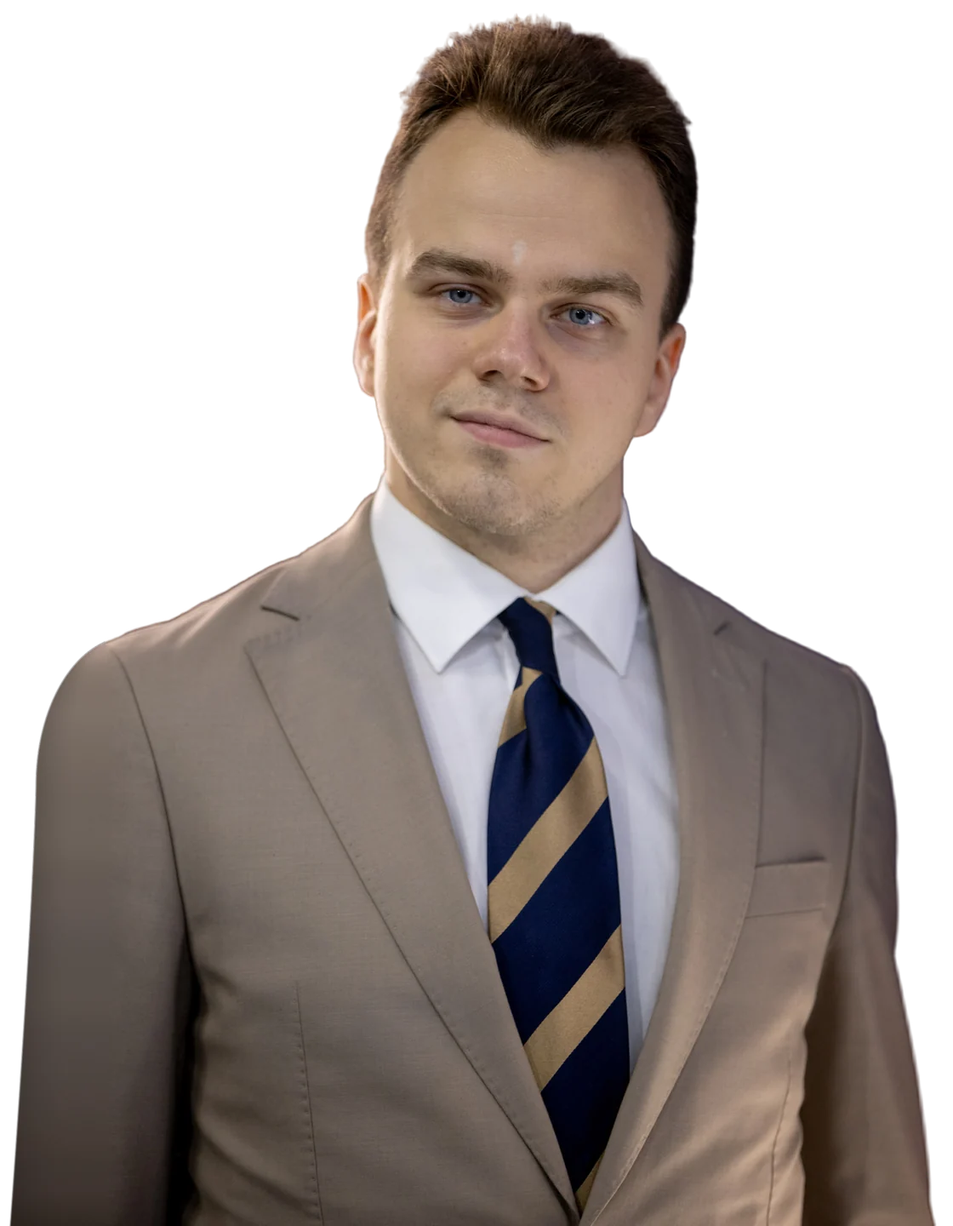
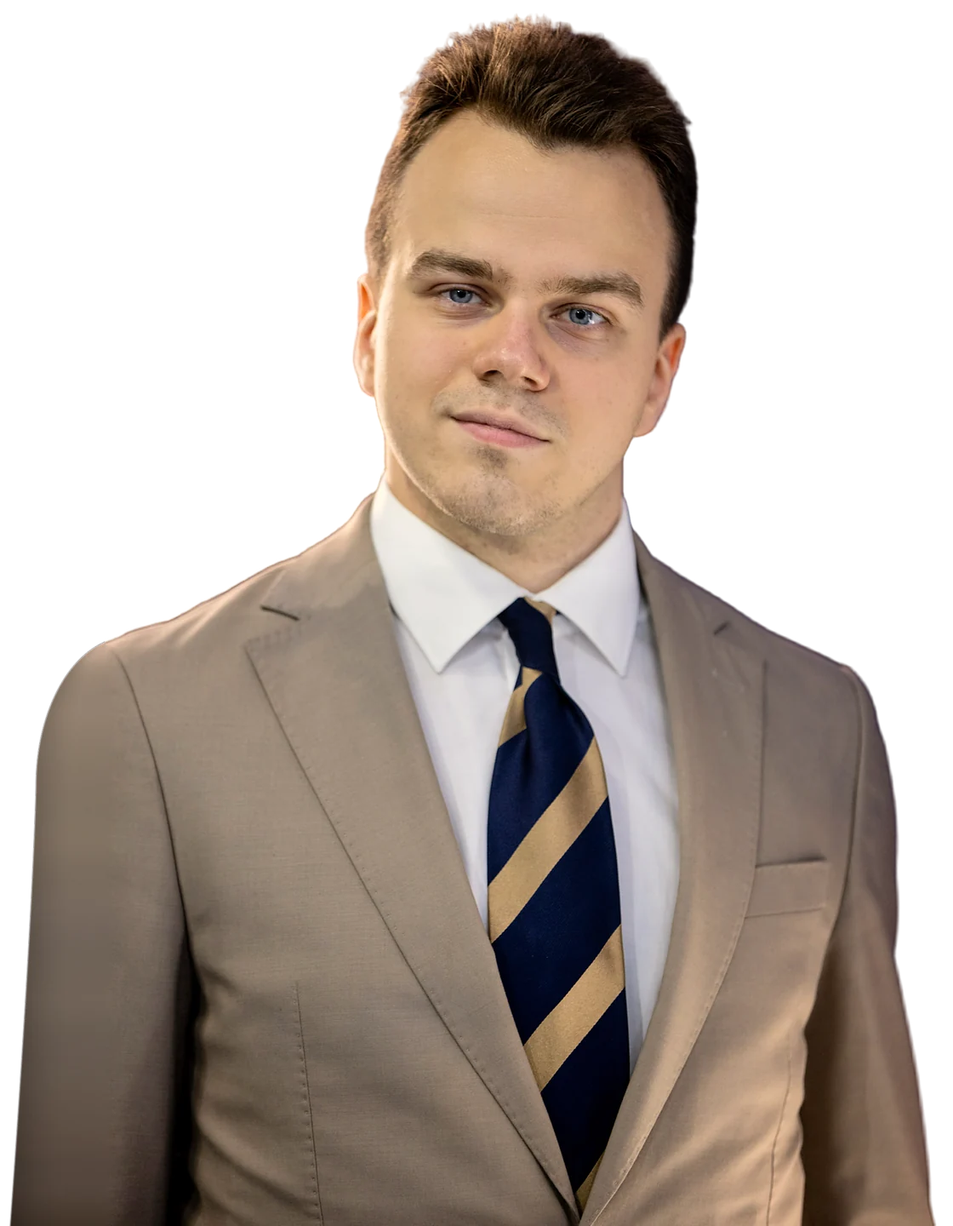
Свет на портрете, один снимок с МИПФ, версии картинок в адресе
Портрет был недосвечен и уходил в холодный оттенок: баланс белого
выставлен по рубашке, середина поднята кривой, крупные перепады яркости
на лице и пиджаке слегка выровнены, блик на лбу приглушен до тона кожи.
Черты лица и форма не менялись.

С МИПФ в галерее оставлен один снимок — с общим планом, где видны
соседние участники. Верхние плитки стали одной ширины, почти в пропорции
самих снимков.

Картинки отдаются с версией в адресе: после замены файла под тем же
именем браузер и мессенджеры больше не держат старый снимок в кеше.

Claude-Session: https://claude.ai/code/session_01WqaZRMW15F2pNUS9pVih7V

diff --git a/index.html b/index.html
@@ -4,7 +4,7 @@
 <meta charset="utf-8">
 <meta name="viewport" content="width=device-width, initial-scale=1">
 <!-- Метка сборки: по ней сразу видно, какая версия реально лежит на сервере -->
-<meta name="build" content="styles.45a622b5.css map-base.268872a6.svg">
+<meta name="build" content="styles.1c656519.css map-base.268872a6.svg">
 <title>Евгений Шутов. Международные проекты и делегации, португальский C1</title>
 <meta name="description" content="Специалист-международник по странам БРИКС и Латинской Америки. Португальский и английский C1. Сопровождение иностранных делегаций, организация международных мероприятий, договоры и отчетность по государственным контрактам.">
 <meta name="author" content="Евгений Шутов">
@@ -22,7 +22,7 @@
 <!-- Карточка для превью ссылки. Без нее мессенджеры показывали пустой
      прямоугольник: twitter:card обещал большую картинку, а картинки не было.
      Адрес обязан быть полным, относительный тут не читается. -->
-<meta property="og:image" content="https://e-shutov.ru/assets/img/og-ru.png">
+<meta property="og:image" content="https://e-shutov.ru/assets/img/og-ru.png?v=8c43b52e">
 <meta property="og:image:type" content="image/png">
 <meta property="og:image:width" content="1200">
 <meta property="og:image:height" content="630">
@@ -38,7 +38,7 @@
 <link rel="apple-touch-icon" href="apple-touch-icon.png">
 <link rel="preload" href="assets/fonts/onest-cyrillic-300800-normal.woff2" as="font" type="font/woff2" crossorigin>
 <link rel="stylesheet" href="assets/fonts.86552c30.css">
-<link rel="stylesheet" href="assets/styles.45a622b5.css">
+<link rel="stylesheet" href="assets/styles.1c656519.css">
 <script type="application/ld+json">{"@context":"https://schema.org","@type":"Person","name":"Евгений Шутов","description":"Специалист-международник по странам БРИКС и Латинской Америки. Португальский и английский C1. Сопровождение иностранных делегаций, организация международных мероприятий, договоры и отчетность по государственным контрактам.","url":"https://e-shutov.ru/","email":"mailto:mail@e-shutov.ru","knowsLanguage":["Португальский","Английский","Испанский"],"alumniOf":{"@type":"CollegeOrUniversity","name":"МГИМО МИД России"},"sameAs":["https://t.me/Taback_1028"]}</script>
 <!-- Появление блоков при прокрутке включается только здесь. Без этой
      строки (скрипт запрещен, ошибка загрузки) текст остается видимым.
@@ -84,7 +84,7 @@
         </div>
       </div>
       <div class="hero__media">
-        <img class="portrait" src="assets/img/portrait.webp" alt="Евгений Шутов" width="1120" height="1440" fetchpriority="high" decoding="async">
+        <img class="portrait" src="assets/img/portrait.webp?v=5a1860ca" alt="Евгений Шутов" width="1120" height="1440" fetchpriority="high" decoding="async">
       </div>
     </div>
   </div>
@@ -276,22 +276,19 @@
       <div><h2 class="h2 reveal">Фотографии</h2></div>
     </div>
     <div class="gal"><figure class="gal__i reveal">
-        <a class="gal__pic" href="assets/img/gallery-panel.webp" data-lb><img src="assets/img/gallery-panel.webp" alt="Евгений Шутов на панельной дискуссии МИПФ-2026" width="1600" height="1066" style="--at:35% 50%" loading="lazy" decoding="async"></a>
+        <a class="gal__pic" href="assets/img/gallery-panel-2.webp?v=50b0b72b" data-lb><img src="assets/img/gallery-panel-2.webp?v=50b0b72b" alt="Евгений Шутов с микрофоном на панельной дискуссии МИПФ-2026" width="1600" height="1067" style="--at:45% 35%" loading="lazy" decoding="async"></a>
         <figcaption>Панельная дискуссия на МИПФ-2026</figcaption>
       </figure><figure class="gal__i reveal">
-        <a class="gal__pic" href="assets/img/gallery-mtpp.webp" data-lb><img src="assets/img/gallery-mtpp.webp" alt="Участники встречи в Московской торгово-промышленной палате" width="1620" height="1080" style="--at:50% 28%" loading="lazy" decoding="async"></a>
+        <a class="gal__pic" href="assets/img/gallery-mtpp.webp?v=9df76fb2" data-lb><img src="assets/img/gallery-mtpp.webp?v=9df76fb2" alt="Участники встречи в Московской торгово-промышленной палате" width="1620" height="1080" style="--at:50% 28%" loading="lazy" decoding="async"></a>
         <figcaption>Встреча в МТПП</figcaption>
       </figure><figure class="gal__i reveal">
-        <a class="gal__pic" href="assets/img/gallery-panel-2.webp" data-lb><img src="assets/img/gallery-panel-2.webp" alt="Евгений Шутов с микрофоном на панельной дискуссии МИПФ-2026" width="1600" height="1067" style="--at:38% 40%" loading="lazy" decoding="async"></a>
-        <figcaption>Панельная дискуссия на МИПФ-2026</figcaption>
-      </figure><figure class="gal__i reveal">
-        <a class="gal__pic" href="assets/img/gallery-intervision.webp" data-lb><img src="assets/img/gallery-intervision.webp" alt="Делегации на «Интервидении-2025»" width="1600" height="1034" style="--at:55% 50%" loading="lazy" decoding="async"></a>
+        <a class="gal__pic" href="assets/img/gallery-intervision.webp?v=0ec75c6f" data-lb><img src="assets/img/gallery-intervision.webp?v=0ec75c6f" alt="Делегации на «Интервидении-2025»" width="1600" height="1034" style="--at:55% 50%" loading="lazy" decoding="async"></a>
         <figcaption>Интервидение-2025</figcaption>
       </figure><figure class="gal__i reveal">
-        <a class="gal__pic" href="assets/img/gallery-agora.webp" data-lb><img src="assets/img/gallery-agora.webp" alt="Форум AGORA, отель Soluxe" width="1600" height="1067" style="--at:50% 50%" loading="lazy" decoding="async"></a>
+        <a class="gal__pic" href="assets/img/gallery-agora.webp?v=7e9b1f49" data-lb><img src="assets/img/gallery-agora.webp?v=7e9b1f49" alt="Форум AGORA, отель Soluxe" width="1600" height="1067" style="--at:50% 50%" loading="lazy" decoding="async"></a>
         <figcaption>Форум AGORA</figcaption>
       </figure><figure class="gal__i reveal">
-        <a class="gal__pic" href="assets/img/gallery-meeting.webp" data-lb><img src="assets/img/gallery-meeting.webp" alt="Евгений Шутов на рабочей встрече" width="1440" height="1080" style="--at:50% 30%" loading="lazy" decoding="async"></a>
+        <a class="gal__pic" href="assets/img/gallery-meeting.webp?v=4303e936" data-lb><img src="assets/img/gallery-meeting.webp?v=4303e936" alt="Евгений Шутов на рабочей встрече" width="1440" height="1080" style="--at:50% 30%" loading="lazy" decoding="async"></a>
         <figcaption>Рабочая встреча</figcaption>
       </figure></div>
   </div>

diff --git a/pt/index.html b/pt/index.html
@@ -4,7 +4,7 @@
 <meta charset="utf-8">
 <meta name="viewport" content="width=device-width, initial-scale=1">
 <!-- Метка сборки: по ней сразу видно, какая версия реально лежит на сервере -->
-<meta name="build" content="styles.45a622b5.css map-base.268872a6.svg">
+<meta name="build" content="styles.1c656519.css map-base.268872a6.svg">
 <title>Evgeny Shutov. Projetos internacionais e delegações, português C1</title>
 <meta name="description" content="Especialista em relações internacionais com foco nos BRICS e na América Latina. Português e inglês em C1. Acompanhamento de delegações estrangeiras, organização de eventos internacionais, contratos e prestação de contas em contratos públicos.">
 <meta name="author" content="Evgeny Shutov">
@@ -22,7 +22,7 @@
 <!-- Карточка для превью ссылки. Без нее мессенджеры показывали пустой
      прямоугольник: twitter:card обещал большую картинку, а картинки не было.
      Адрес обязан быть полным, относительный тут не читается. -->
-<meta property="og:image" content="https://e-shutov.ru/assets/img/og-pt.png">
+<meta property="og:image" content="https://e-shutov.ru/assets/img/og-pt.png?v=5af6ef13">
 <meta property="og:image:type" content="image/png">
 <meta property="og:image:width" content="1200">
 <meta property="og:image:height" content="630">
@@ -38,7 +38,7 @@
 <link rel="apple-touch-icon" href="../apple-touch-icon.png">
 <link rel="preload" href="../assets/fonts/onest-latin-300800-normal.woff2" as="font" type="font/woff2" crossorigin>
 <link rel="stylesheet" href="../assets/fonts.86552c30.css">
-<link rel="stylesheet" href="../assets/styles.45a622b5.css">
+<link rel="stylesheet" href="../assets/styles.1c656519.css">
 <script type="application/ld+json">{"@context":"https://schema.org","@type":"Person","name":"Evgeny Shutov","description":"Especialista em relações internacionais com foco nos BRICS e na América Latina. Português e inglês em C1. Acompanhamento de delegações estrangeiras, organização de eventos internacionais, contratos e prestação de contas em contratos públicos.","url":"https://e-shutov.ru/pt/","email":"mailto:mail@e-shutov.ru","knowsLanguage":["Português","Inglês","Espanhol"],"alumniOf":{"@type":"CollegeOrUniversity","name":"MGIMO University"},"sameAs":["https://t.me/Taback_1028"]}</script>
 <!-- Появление блоков при прокрутке включается только здесь. Без этой
      строки (скрипт запрещен, ошибка загрузки) текст остается видимым.
@@ -84,7 +84,7 @@
         </div>
       </div>
       <div class="hero__media">
-        <img class="portrait" src="../assets/img/portrait.webp" alt="Evgeny Shutov" width="1120" height="1440" fetchpriority="high" decoding="async">
+        <img class="portrait" src="../assets/img/portrait.webp?v=5a1860ca" alt="Evgeny Shutov" width="1120" height="1440" fetchpriority="high" decoding="async">
       </div>
     </div>
   </div>
@@ -276,22 +276,19 @@
       <div><h2 class="h2 reveal">Fotos</h2></div>
     </div>
     <div class="gal"><figure class="gal__i reveal">
-        <a class="gal__pic" href="../assets/img/gallery-panel.webp" data-lb><img src="../assets/img/gallery-panel.webp" alt="Evgeny Shutov em um painel do Fórum de Investimento e Indústria de Moscou 2026" width="1600" height="1066" style="--at:35% 50%" loading="lazy" decoding="async"></a>
+        <a class="gal__pic" href="../assets/img/gallery-panel-2.webp?v=50b0b72b" data-lb><img src="../assets/img/gallery-panel-2.webp?v=50b0b72b" alt="Evgeny Shutov falando em um painel do Fórum de Investimento e Indústria de Moscou 2026" width="1600" height="1067" style="--at:45% 35%" loading="lazy" decoding="async"></a>
         <figcaption>Painel de debate, Fórum de Investimento e Indústria de Moscou 2026</figcaption>
       </figure><figure class="gal__i reveal">
-        <a class="gal__pic" href="../assets/img/gallery-mtpp.webp" data-lb><img src="../assets/img/gallery-mtpp.webp" alt="Participantes de reunião na Câmara de Comércio e Indústria de Moscou" width="1620" height="1080" style="--at:50% 28%" loading="lazy" decoding="async"></a>
+        <a class="gal__pic" href="../assets/img/gallery-mtpp.webp?v=9df76fb2" data-lb><img src="../assets/img/gallery-mtpp.webp?v=9df76fb2" alt="Participantes de reunião na Câmara de Comércio e Indústria de Moscou" width="1620" height="1080" style="--at:50% 28%" loading="lazy" decoding="async"></a>
         <figcaption>Reunião na Câmara de Comércio e Indústria de Moscou</figcaption>
       </figure><figure class="gal__i reveal">
-        <a class="gal__pic" href="../assets/img/gallery-panel-2.webp" data-lb><img src="../assets/img/gallery-panel-2.webp" alt="Evgeny Shutov falando em um painel do Fórum de Investimento e Indústria de Moscou 2026" width="1600" height="1067" style="--at:38% 40%" loading="lazy" decoding="async"></a>
-        <figcaption>Painel de debate, Fórum de Investimento e Indústria de Moscou 2026</figcaption>
-      </figure><figure class="gal__i reveal">
-        <a class="gal__pic" href="../assets/img/gallery-intervision.webp" data-lb><img src="../assets/img/gallery-intervision.webp" alt="Delegações na Intervision 2025" width="1600" height="1034" style="--at:55% 50%" loading="lazy" decoding="async"></a>
+        <a class="gal__pic" href="../assets/img/gallery-intervision.webp?v=0ec75c6f" data-lb><img src="../assets/img/gallery-intervision.webp?v=0ec75c6f" alt="Delegações na Intervision 2025" width="1600" height="1034" style="--at:55% 50%" loading="lazy" decoding="async"></a>
         <figcaption>Intervision 2025</figcaption>
       </figure><figure class="gal__i reveal">
-        <a class="gal__pic" href="../assets/img/gallery-agora.webp" data-lb><img src="../assets/img/gallery-agora.webp" alt="Fórum AGORA, hotel Soluxe" width="1600" height="1067" style="--at:50% 50%" loading="lazy" decoding="async"></a>
+        <a class="gal__pic" href="../assets/img/gallery-agora.webp?v=7e9b1f49" data-lb><img src="../assets/img/gallery-agora.webp?v=7e9b1f49" alt="Fórum AGORA, hotel Soluxe" width="1600" height="1067" style="--at:50% 50%" loading="lazy" decoding="async"></a>
         <figcaption>Fórum AGORA</figcaption>
       </figure><figure class="gal__i reveal">
-        <a class="gal__pic" href="../assets/img/gallery-meeting.webp" data-lb><img src="../assets/img/gallery-meeting.webp" alt="Evgeny Shutov em uma reunião de trabalho" width="1440" height="1080" style="--at:50% 30%" loading="lazy" decoding="async"></a>
+        <a class="gal__pic" href="../assets/img/gallery-meeting.webp?v=4303e936" data-lb><img src="../assets/img/gallery-meeting.webp?v=4303e936" alt="Evgeny Shutov em uma reunião de trabalho" width="1440" height="1080" style="--at:50% 30%" loading="lazy" decoding="async"></a>
         <figcaption>Reunião de trabalho</figcaption>
       </figure></div>
   </div>

diff --git a/en/index.html b/en/index.html
@@ -4,7 +4,7 @@
 <meta charset="utf-8">
 <meta name="viewport" content="width=device-width, initial-scale=1">
 <!-- Метка сборки: по ней сразу видно, какая версия реально лежит на сервере -->
-<meta name="build" content="styles.45a622b5.css map-base.268872a6.svg">
+<meta name="build" content="styles.1c656519.css map-base.268872a6.svg">
 <title>Evgeny Shutov. International projects and delegations, Portuguese at C1</title>
 <meta name="description" content="International relations specialist for BRICS and Latin America. Portuguese and English at C1. Foreign delegations, international event management, contracts and government-contract reporting.">
 <meta name="author" content="Evgeny Shutov">
@@ -22,7 +22,7 @@
 <!-- Карточка для превью ссылки. Без нее мессенджеры показывали пустой
      прямоугольник: twitter:card обещал большую картинку, а картинки не было.
      Адрес обязан быть полным, относительный тут не читается. -->
-<meta property="og:image" content="https://e-shutov.ru/assets/img/og-en.png">
+<meta property="og:image" content="https://e-shutov.ru/assets/img/og-en.png?v=d4ed9a16">
 <meta property="og:image:type" content="image/png">
 <meta property="og:image:width" content="1200">
 <meta property="og:image:height" content="630">
@@ -38,7 +38,7 @@
 <link rel="apple-touch-icon" href="../apple-touch-icon.png">
 <link rel="preload" href="../assets/fonts/onest-latin-300800-normal.woff2" as="font" type="font/woff2" crossorigin>
 <link rel="stylesheet" href="../assets/fonts.86552c30.css">
-<link rel="stylesheet" href="../assets/styles.45a622b5.css">
+<link rel="stylesheet" href="../assets/styles.1c656519.css">
 <script type="application/ld+json">{"@context":"https://schema.org","@type":"Person","name":"Evgeny Shutov","description":"International relations specialist for BRICS and Latin America. Portuguese and English at C1. Foreign delegations, international event management, contracts and government-contract reporting.","url":"https://e-shutov.ru/en/","email":"mailto:mail@e-shutov.ru","knowsLanguage":["Portuguese","English","Spanish"],"alumniOf":{"@type":"CollegeOrUniversity","name":"MGIMO University"},"sameAs":["https://t.me/Taback_1028"]}</script>
 <!-- Появление блоков при прокрутке включается только здесь. Без этой
      строки (скрипт запрещен, ошибка загрузки) текст остается видимым.
@@ -84,7 +84,7 @@
         </div>
       </div>
       <div class="hero__media">
-        <img class="portrait" src="../assets/img/portrait.webp" alt="Evgeny Shutov" width="1120" height="1440" fetchpriority="high" decoding="async">
+        <img class="portrait" src="../assets/img/portrait.webp?v=5a1860ca" alt="Evgeny Shutov" width="1120" height="1440" fetchpriority="high" decoding="async">
       </div>
     </div>
   </div>
@@ -276,22 +276,19 @@
       <div><h2 class="h2 reveal">Photos</h2></div>
     </div>
     <div class="gal"><figure class="gal__i reveal">
-        <a class="gal__pic" href="../assets/img/gallery-panel.webp" data-lb><img src="../assets/img/gallery-panel.webp" alt="Evgeny Shutov on a panel at the Moscow Investment and Industrial Forum 2026" width="1600" height="1066" style="--at:35% 50%" loading="lazy" decoding="async"></a>
+        <a class="gal__pic" href="../assets/img/gallery-panel-2.webp?v=50b0b72b" data-lb><img src="../assets/img/gallery-panel-2.webp?v=50b0b72b" alt="Evgeny Shutov speaking on a panel at the Moscow Investment and Industrial Forum 2026" width="1600" height="1067" style="--at:45% 35%" loading="lazy" decoding="async"></a>
         <figcaption>Panel discussion, Moscow Investment and Industrial Forum 2026</figcaption>
       </figure><figure class="gal__i reveal">
-        <a class="gal__pic" href="../assets/img/gallery-mtpp.webp" data-lb><img src="../assets/img/gallery-mtpp.webp" alt="Meeting participants at the Moscow Chamber of Commerce and Industry" width="1620" height="1080" style="--at:50% 28%" loading="lazy" decoding="async"></a>
+        <a class="gal__pic" href="../assets/img/gallery-mtpp.webp?v=9df76fb2" data-lb><img src="../assets/img/gallery-mtpp.webp?v=9df76fb2" alt="Meeting participants at the Moscow Chamber of Commerce and Industry" width="1620" height="1080" style="--at:50% 28%" loading="lazy" decoding="async"></a>
         <figcaption>Meeting at the Moscow Chamber of Commerce and Industry</figcaption>
       </figure><figure class="gal__i reveal">
-        <a class="gal__pic" href="../assets/img/gallery-panel-2.webp" data-lb><img src="../assets/img/gallery-panel-2.webp" alt="Evgeny Shutov speaking on a panel at the Moscow Investment and Industrial Forum 2026" width="1600" height="1067" style="--at:38% 40%" loading="lazy" decoding="async"></a>
-        <figcaption>Panel discussion, Moscow Investment and Industrial Forum 2026</figcaption>
-      </figure><figure class="gal__i reveal">
-        <a class="gal__pic" href="../assets/img/gallery-intervision.webp" data-lb><img src="../assets/img/gallery-intervision.webp" alt="Delegations at Intervision 2025" width="1600" height="1034" style="--at:55% 50%" loading="lazy" decoding="async"></a>
+        <a class="gal__pic" href="../assets/img/gallery-intervision.webp?v=0ec75c6f" data-lb><img src="../assets/img/gallery-intervision.webp?v=0ec75c6f" alt="Delegations at Intervision 2025" width="1600" height="1034" style="--at:55% 50%" loading="lazy" decoding="async"></a>
         <figcaption>Intervision 2025</figcaption>
       </figure><figure class="gal__i reveal">
-        <a class="gal__pic" href="../assets/img/gallery-agora.webp" data-lb><img src="../assets/img/gallery-agora.webp" alt="AGORA forum, Soluxe Hotel" width="1600" height="1067" style="--at:50% 50%" loading="lazy" decoding="async"></a>
+        <a class="gal__pic" href="../assets/img/gallery-agora.webp?v=7e9b1f49" data-lb><img src="../assets/img/gallery-agora.webp?v=7e9b1f49" alt="AGORA forum, Soluxe Hotel" width="1600" height="1067" style="--at:50% 50%" loading="lazy" decoding="async"></a>
         <figcaption>AGORA forum</figcaption>
       </figure><figure class="gal__i reveal">
-        <a class="gal__pic" href="../assets/img/gallery-meeting.webp" data-lb><img src="../assets/img/gallery-meeting.webp" alt="Evgeny Shutov at a working meeting" width="1440" height="1080" style="--at:50% 30%" loading="lazy" decoding="async"></a>
+        <a class="gal__pic" href="../assets/img/gallery-meeting.webp?v=4303e936" data-lb><img src="../assets/img/gallery-meeting.webp?v=4303e936" alt="Evgeny Shutov at a working meeting" width="1440" height="1080" style="--at:50% 30%" loading="lazy" decoding="async"></a>
         <figcaption>Working meeting</figcaption>
       </figure></div>
   </div>

diff --git a/assets/styles.1c656519.css b/assets/styles.1c656519.css
@@ -1664,7 +1664,7 @@ html.lenis { scroll-behavior: auto; }
 }
 
 /* --- 35. Фотогалерея -------------------------------------- */
-/* Мозаика в два ряда: сверху два крупных кадра, под ними четыре поменьше.
+/* Мозаика в два ряда: сверху два крупных кадра, под ними три поменьше.
    Высота ряда задана, снимок заполняет плитку и подрезается под ее
    пропорцию; что при этом держать в кадре, говорит --at у каждого
    снимка. Снимки цветные: обесцвеченными они сливались в серую ленту,
@@ -1676,13 +1676,14 @@ html.lenis { scroll-behavior: auto; }
   gap: clamp(1.5rem, 2.6vw, 2.25rem) clamp(.75rem, 1.4vw, 1.25rem);
   margin-top: clamp(2.5rem, 5vw, 4rem);
 }
-.gal__i { margin: 0; grid-column: span 3; }
-.gal__i:nth-child(1) { grid-column: span 5; }
-.gal__i:nth-child(2) { grid-column: span 7; }
+.gal__i { margin: 0; grid-column: span 4; }
+/* Два верхних кадра одной ширины: плитка выходит почти в пропорции
+   самого снимка, и общий план не теряет людей по краям. */
+.gal__i:nth-child(-n+2) { grid-column: span 6; }
 .gal__pic {
   display: block;
   overflow: hidden;
-  height: clamp(9rem, 17vw, 14.5rem);
+  height: clamp(11rem, 22vw, 19rem);
   background: var(--paper-sunk);
   cursor: zoom-in;
 }
@@ -1711,7 +1712,7 @@ html.lenis { scroll-behavior: auto; }
 /* Планшет: все плитки одного размера, по две в ряд */
 @media (max-width: 1000px) {
   .gal { grid-template-columns: repeat(2, minmax(0, 1fr)); }
-  .gal__i, .gal__i:nth-child(1), .gal__i:nth-child(2) { grid-column: auto; }
+  .gal__i, .gal__i:nth-child(-n+2) { grid-column: auto; }
   .gal__pic, .gal__i:nth-child(-n+2) .gal__pic { height: auto; aspect-ratio: 3 / 2; }
 }
 @media (max-width: 620px) {

diff --git a/src/styles.css b/src/styles.css
@@ -1664,7 +1664,7 @@ html.lenis { scroll-behavior: auto; }
 }
 
 /* --- 35. Фотогалерея -------------------------------------- */
-/* Мозаика в два ряда: сверху два крупных кадра, под ними четыре поменьше.
+/* Мозаика в два ряда: сверху два крупных кадра, под ними три поменьше.
    Высота ряда задана, снимок заполняет плитку и подрезается под ее
    пропорцию; что при этом держать в кадре, говорит --at у каждого
    снимка. Снимки цветные: обесцвеченными они сливались в серую ленту,
@@ -1676,13 +1676,14 @@ html.lenis { scroll-behavior: auto; }
   gap: clamp(1.5rem, 2.6vw, 2.25rem) clamp(.75rem, 1.4vw, 1.25rem);
   margin-top: clamp(2.5rem, 5vw, 4rem);
 }
-.gal__i { margin: 0; grid-column: span 3; }
-.gal__i:nth-child(1) { grid-column: span 5; }
-.gal__i:nth-child(2) { grid-column: span 7; }
+.gal__i { margin: 0; grid-column: span 4; }
+/* Два верхних кадра одной ширины: плитка выходит почти в пропорции
+   самого снимка, и общий план не теряет людей по краям. */
+.gal__i:nth-child(-n+2) { grid-column: span 6; }
 .gal__pic {
   display: block;
   overflow: hidden;
-  height: clamp(9rem, 17vw, 14.5rem);
+  height: clamp(11rem, 22vw, 19rem);
   background: var(--paper-sunk);
   cursor: zoom-in;
 }
@@ -1711,7 +1712,7 @@ html.lenis { scroll-behavior: auto; }
 /* Планшет: все плитки одного размера, по две в ряд */
 @media (max-width: 1000px) {
   .gal { grid-template-columns: repeat(2, minmax(0, 1fr)); }
-  .gal__i, .gal__i:nth-child(1), .gal__i:nth-child(2) { grid-column: auto; }
+  .gal__i, .gal__i:nth-child(-n+2) { grid-column: auto; }
   .gal__pic, .gal__i:nth-child(-n+2) .gal__pic { height: auto; aspect-ratio: 3 / 2; }
 }
 @media (max-width: 620px) {

diff --git a/404.html b/404.html
@@ -3,7 +3,7 @@
 <title>Страница не найдена — Евгений Шутов</title>
 <meta name="robots" content="noindex">
 <link rel="icon" href="/favicon.svg" type="image/svg+xml">
-<link rel="stylesheet" href="/assets/fonts.86552c30.css"><link rel="stylesheet" href="/assets/styles.45a622b5.css">
+<link rel="stylesheet" href="/assets/fonts.86552c30.css"><link rel="stylesheet" href="/assets/styles.1c656519.css">
 </head><body>
 <main id="main" class="band"><div class="shell">
 <p class="label" style="margin-bottom:1.5rem">404</p>

diff --git a/README.md b/README.md
@@ -121,8 +121,16 @@ Consult Invest ITIC указана Татьяна Селиверстова, по
 полупрозрачной кромке пересчитан от самого человека (pymatting), иначе на
 волосах оставалась кайма от студийного фона. В исходном кадре левый рукав
 обрезан краем снимка: холст расширен влево, недостающая полоса рукава
-закрашена тоном ткани у самого края по плавному контуру плеча. Лицо и все,
-что было в кадре, не менялось.
+закрашена тоном ткани у самого края по плавному контуру плеча.
+
+Затем поправлены свет и цвет: баланс белого выставлен по рубашке (в
+исходнике она уходила в синеву), снимок высветлен кривой — он был
+недосвечен, — крупные перепады яркости на лице и пиджаке слегка
+выровнены, блик на лбу приглушен до тона кожи. Черты лица и форма не
+менялись.
+
+Картинки отдаются с версией в адресе (`?v=<хеш>`), поэтому после замены
+файла под тем же именем кеш браузера не показывает старый снимок.
 
 ## Выгрузка на хостинг
 
